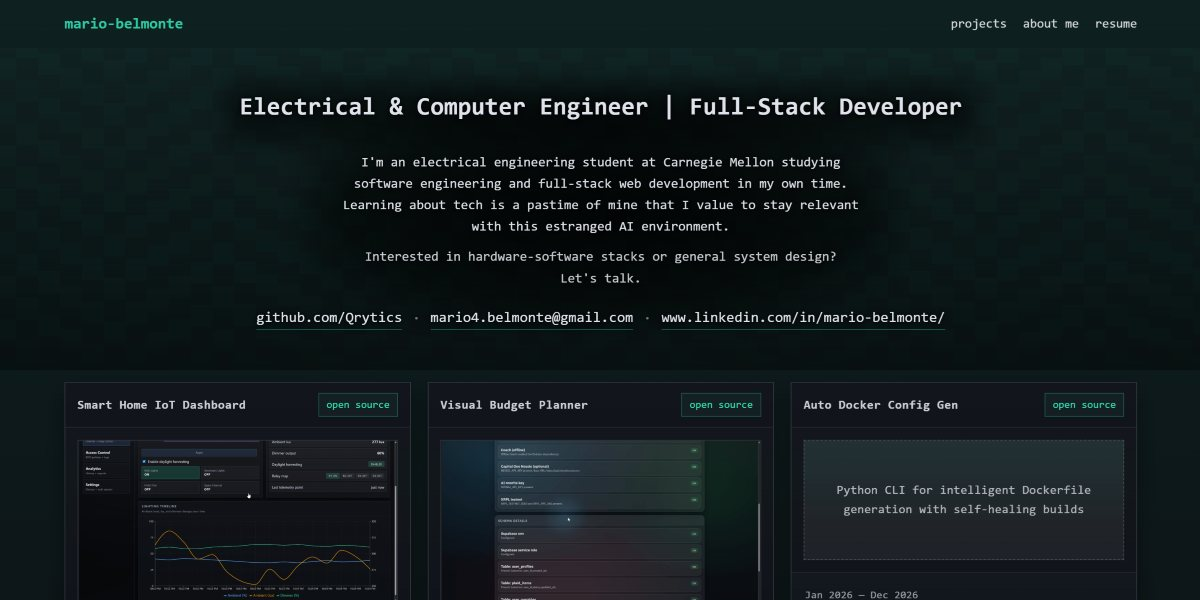
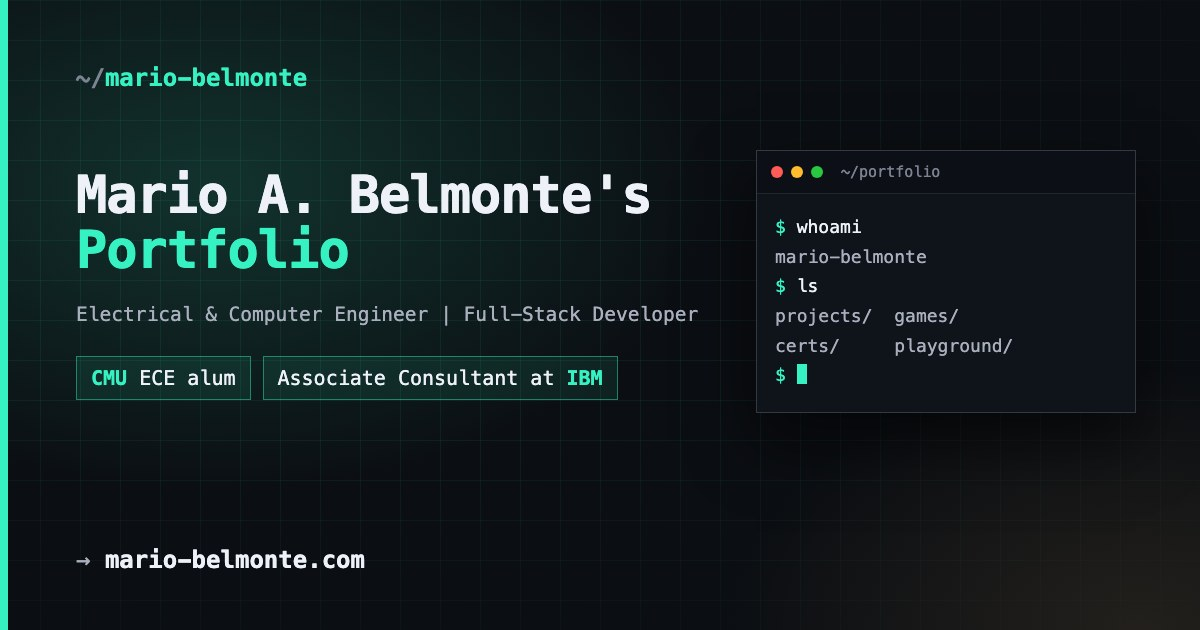
Rename the site title and replace the share-preview card
"Mario A. Belmonte's Portfolio" for the title and WebSite name. og.jpg is
now a 1200x630 share card with the current role, declared at its real size.

diff --git a/src/lib/data/seo.ts b/src/lib/data/seo.ts
@@ -23,7 +23,7 @@ import type { Project } from './projects';
  */
 export const SITE_URL = 'https://mario-belmonte.com';
 
-/** 1200x600, 82,866 B. Named separately because its dimensions are known and can be declared. */
+/** 1200x630, 76,280 B. Named separately because its dimensions are known and can be declared. */
 const DEFAULT_OG_IMAGE = '/og.jpg';
 
 export interface SeoMeta {
@@ -46,7 +46,7 @@ const SITE_DESCRIPTION = `${profile.tagline} — ${profile.description}`;
 /** Per-route overrides. Anything absent falls back to the site defaults in `resolveSeo`. */
 const ROUTES: Record<string, { title: string; description: string; ogType?: SeoMeta['ogType'] }> = {
 	'/': {
-		title: `${profile.name} — Portfolio`,
+		title: `${profile.name}'s Portfolio`,
 		description: SITE_DESCRIPTION
 	},
 	'/about': {
@@ -172,7 +172,7 @@ export function resolveSeo(pathname: string, project?: Project): SeoMeta {
 			// Dimensions are only declared for the default image; guessing them for a project poster is
 			// how the previous `1200x630` claim about a 2880x1800 file happened.
 			imageWidth: image ? undefined : 1200,
-			imageHeight: image ? undefined : 600,
+			imageHeight: image ? undefined : 630,
 			ogType: 'article',
 			jsonLd: serializeJsonLd({
 				'@context': 'https://schema.org',
@@ -198,13 +198,13 @@ export function resolveSeo(pathname: string, project?: Project): SeoMeta {
 	const isHome = path === '/';
 
 	return {
-		title: route?.title ?? `${profile.name} — Portfolio`,
+		title: route?.title ?? `${profile.name}'s Portfolio`,
 		description: route?.description ?? SITE_DESCRIPTION,
 		canonical,
 		image: `${SITE_URL}${DEFAULT_OG_IMAGE}`,
 		imageType: imageTypeOf(DEFAULT_OG_IMAGE),
 		imageWidth: 1200,
-		imageHeight: 600,
+		imageHeight: 630,
 		ogType: route?.ogType ?? 'website',
 		// Only the homepage carries the WebSite + Person graph. Repeating it on every route adds bytes
 		// without adding information, and gives crawlers several competing definitions of one entity.
@@ -214,7 +214,7 @@ export function resolveSeo(pathname: string, project?: Project): SeoMeta {
 					'@graph': [
 						{
 							'@type': 'WebSite',
-							name: `${profile.name} — Portfolio`,
+							name: `${profile.name}'s Portfolio`,
 							url: SITE_URL,
 							description: SITE_DESCRIPTION,
 							inLanguage: 'en',

diff --git a/src/routes/+layout.svelte b/src/routes/+layout.svelte
@@ -103,8 +103,9 @@
 		The default image was `link_photo.png`: a 1,363,364 B PNG at 2880x1800, declared as 1200x630.
 		Both numbers were wrong, and the size was the expensive kind of wrong — WhatsApp and several
 		other scrapers refuse to fetch a preview image over ~1 MB, so link previews silently failed
-		rather than showing a wrong-sized image. `og.jpg` is the same artwork at 1200x600 and 82,866 B,
-		a 94% reduction, and the declared height is now the height the file actually measures.
+		rather than showing a wrong-sized image. `og.jpg` is now a purpose-made 1200x630 share card
+		(~76 KB), and the declared height is the height the file actually measures — keep `seo.ts` in
+		step if the file is ever regenerated at another size.
 	-->
 	<meta property="og:image" content={seo.image} />
 	<meta property="og:image:type" content={seo.imageType} />
